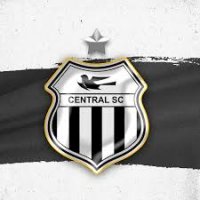
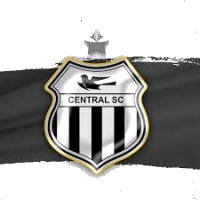
Remove fundos dos escudos e atualiza cache do site

diff --git a/index.html b/index.html
@@ -86,7 +86,7 @@
 <script>
   if ('serviceWorker' in navigator) {
     window.addEventListener('load', () => {
-      navigator.serviceWorker.register('./sw.js').catch(() => {});
+      navigator.serviceWorker.register('./sw.js', { updateViaCache: 'none' }).catch(() => {});
     });
   }
 </script>

diff --git a/sw.js b/sw.js
@@ -1,5 +1,5 @@
 // Service Worker do AFM Manager 2027
-const CACHE_NAME = 'afm-2027-cache-v3';
+const CACHE_NAME = 'afm-2027-cache-v4';
 const ASSETS_TO_CACHE = [
   './',
   './index.html',
